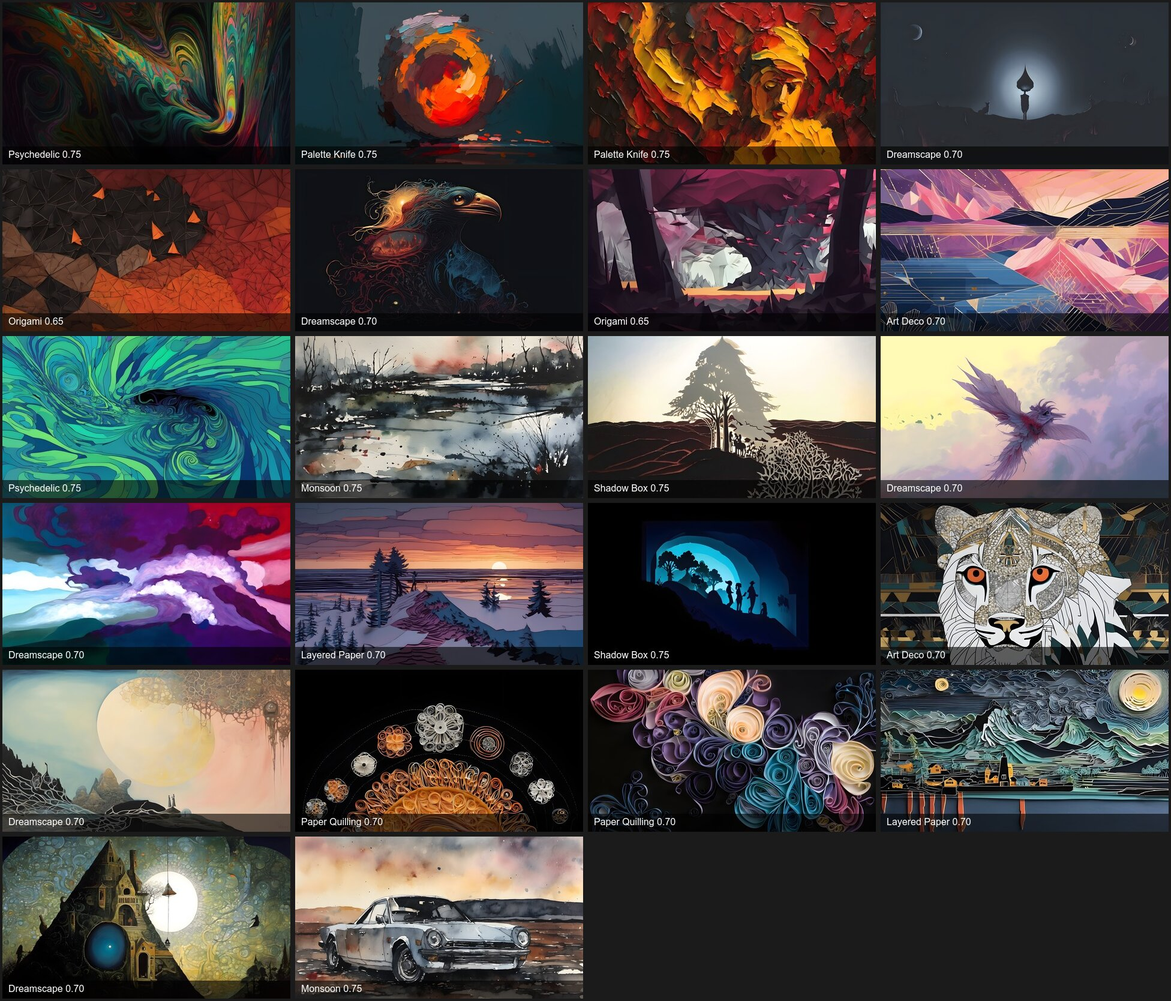
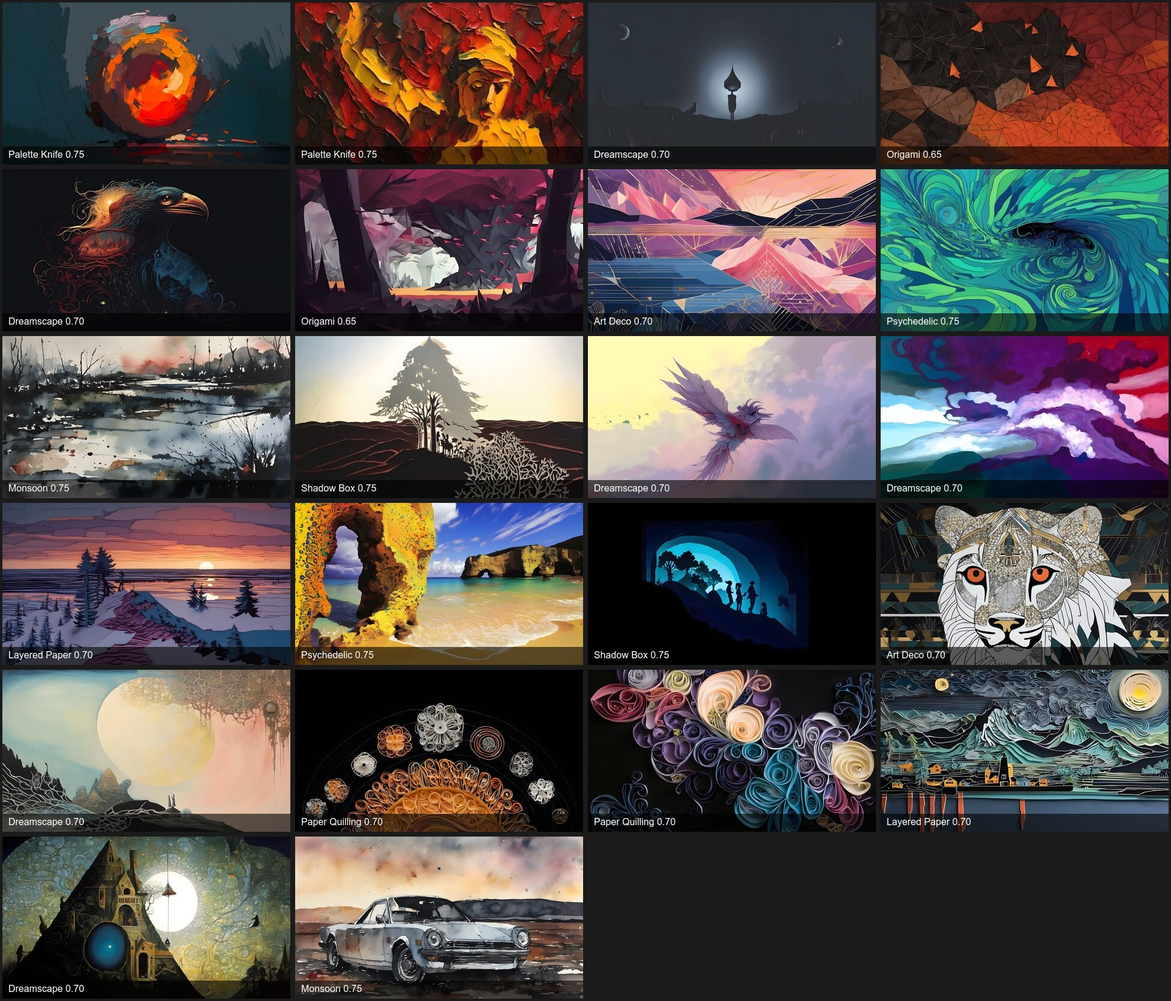
Swap the American-flag painting for a beach with a rock arch (Psychedelic)

diff --git a/CHANGELOG.md b/CHANGELOG.md
@@ -10,6 +10,8 @@
   abstract.
 - **No doubles with any pack** (Erik): no painting, source picture or subject from kirotux-wallpapers or the Ko-fi KA
   Wallpapers packs 1 and 2. md5: no copies; the closest 32x18 thumbnails were looked at side by side: other pictures.
+- Erik swapped one: the Psychedelic painting from an American-flag photo became a sandy beach with a rock arch
+  (Baby Groot, the next candidate, is a Marvel character and was skipped).
 - README.md, README.txt and the preview `docs/styles.jpg` describe the new set; the source note covers 22 pictures
   from public wallpaper sites, artists unknown, credit or removal on request.
 
